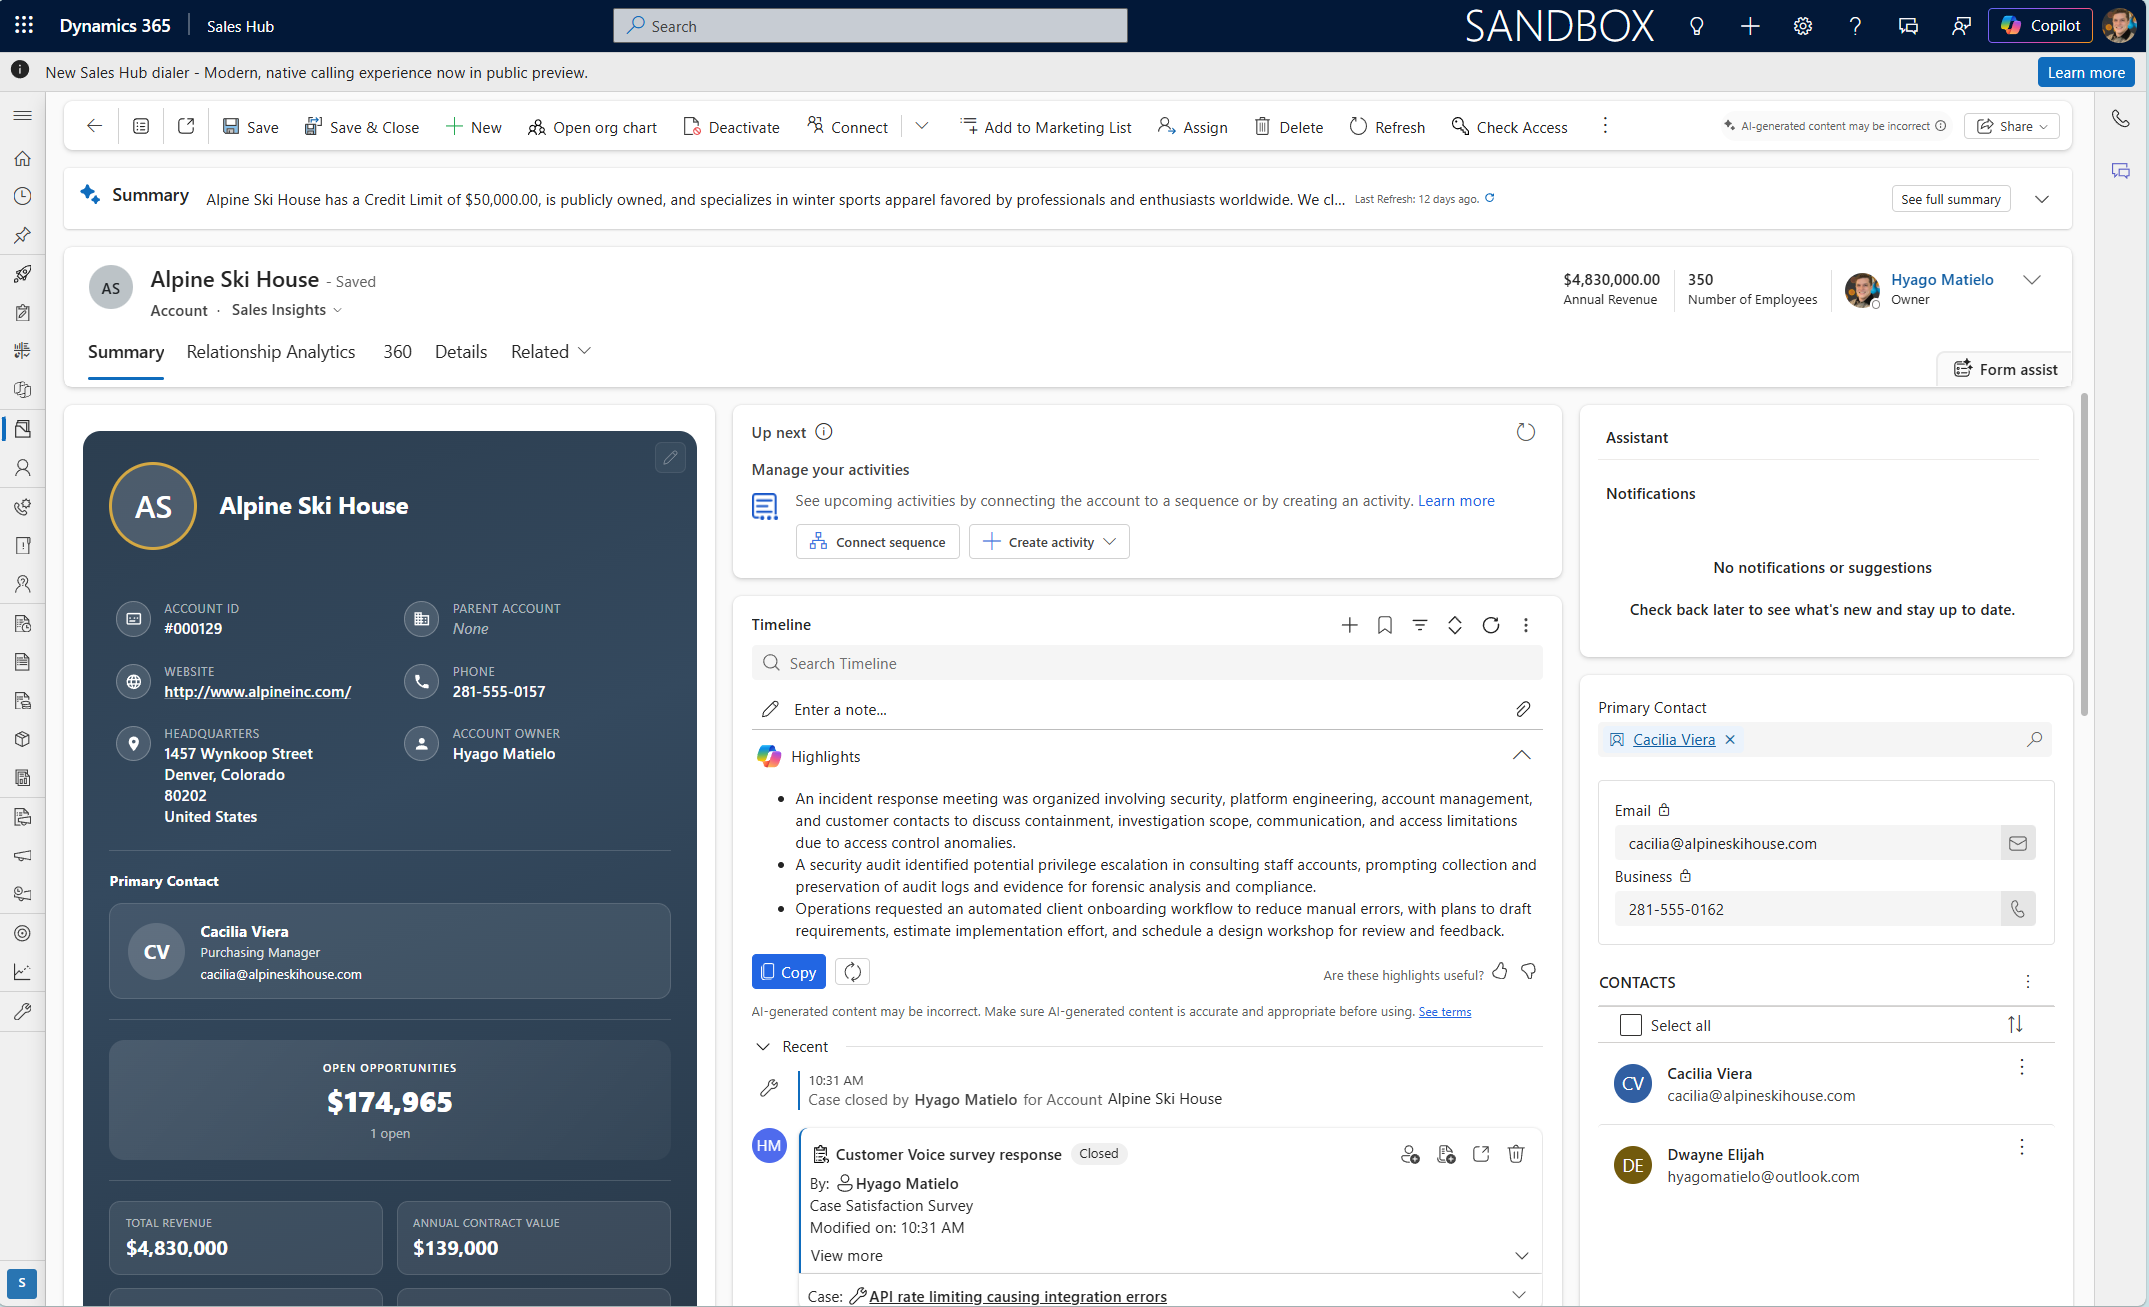
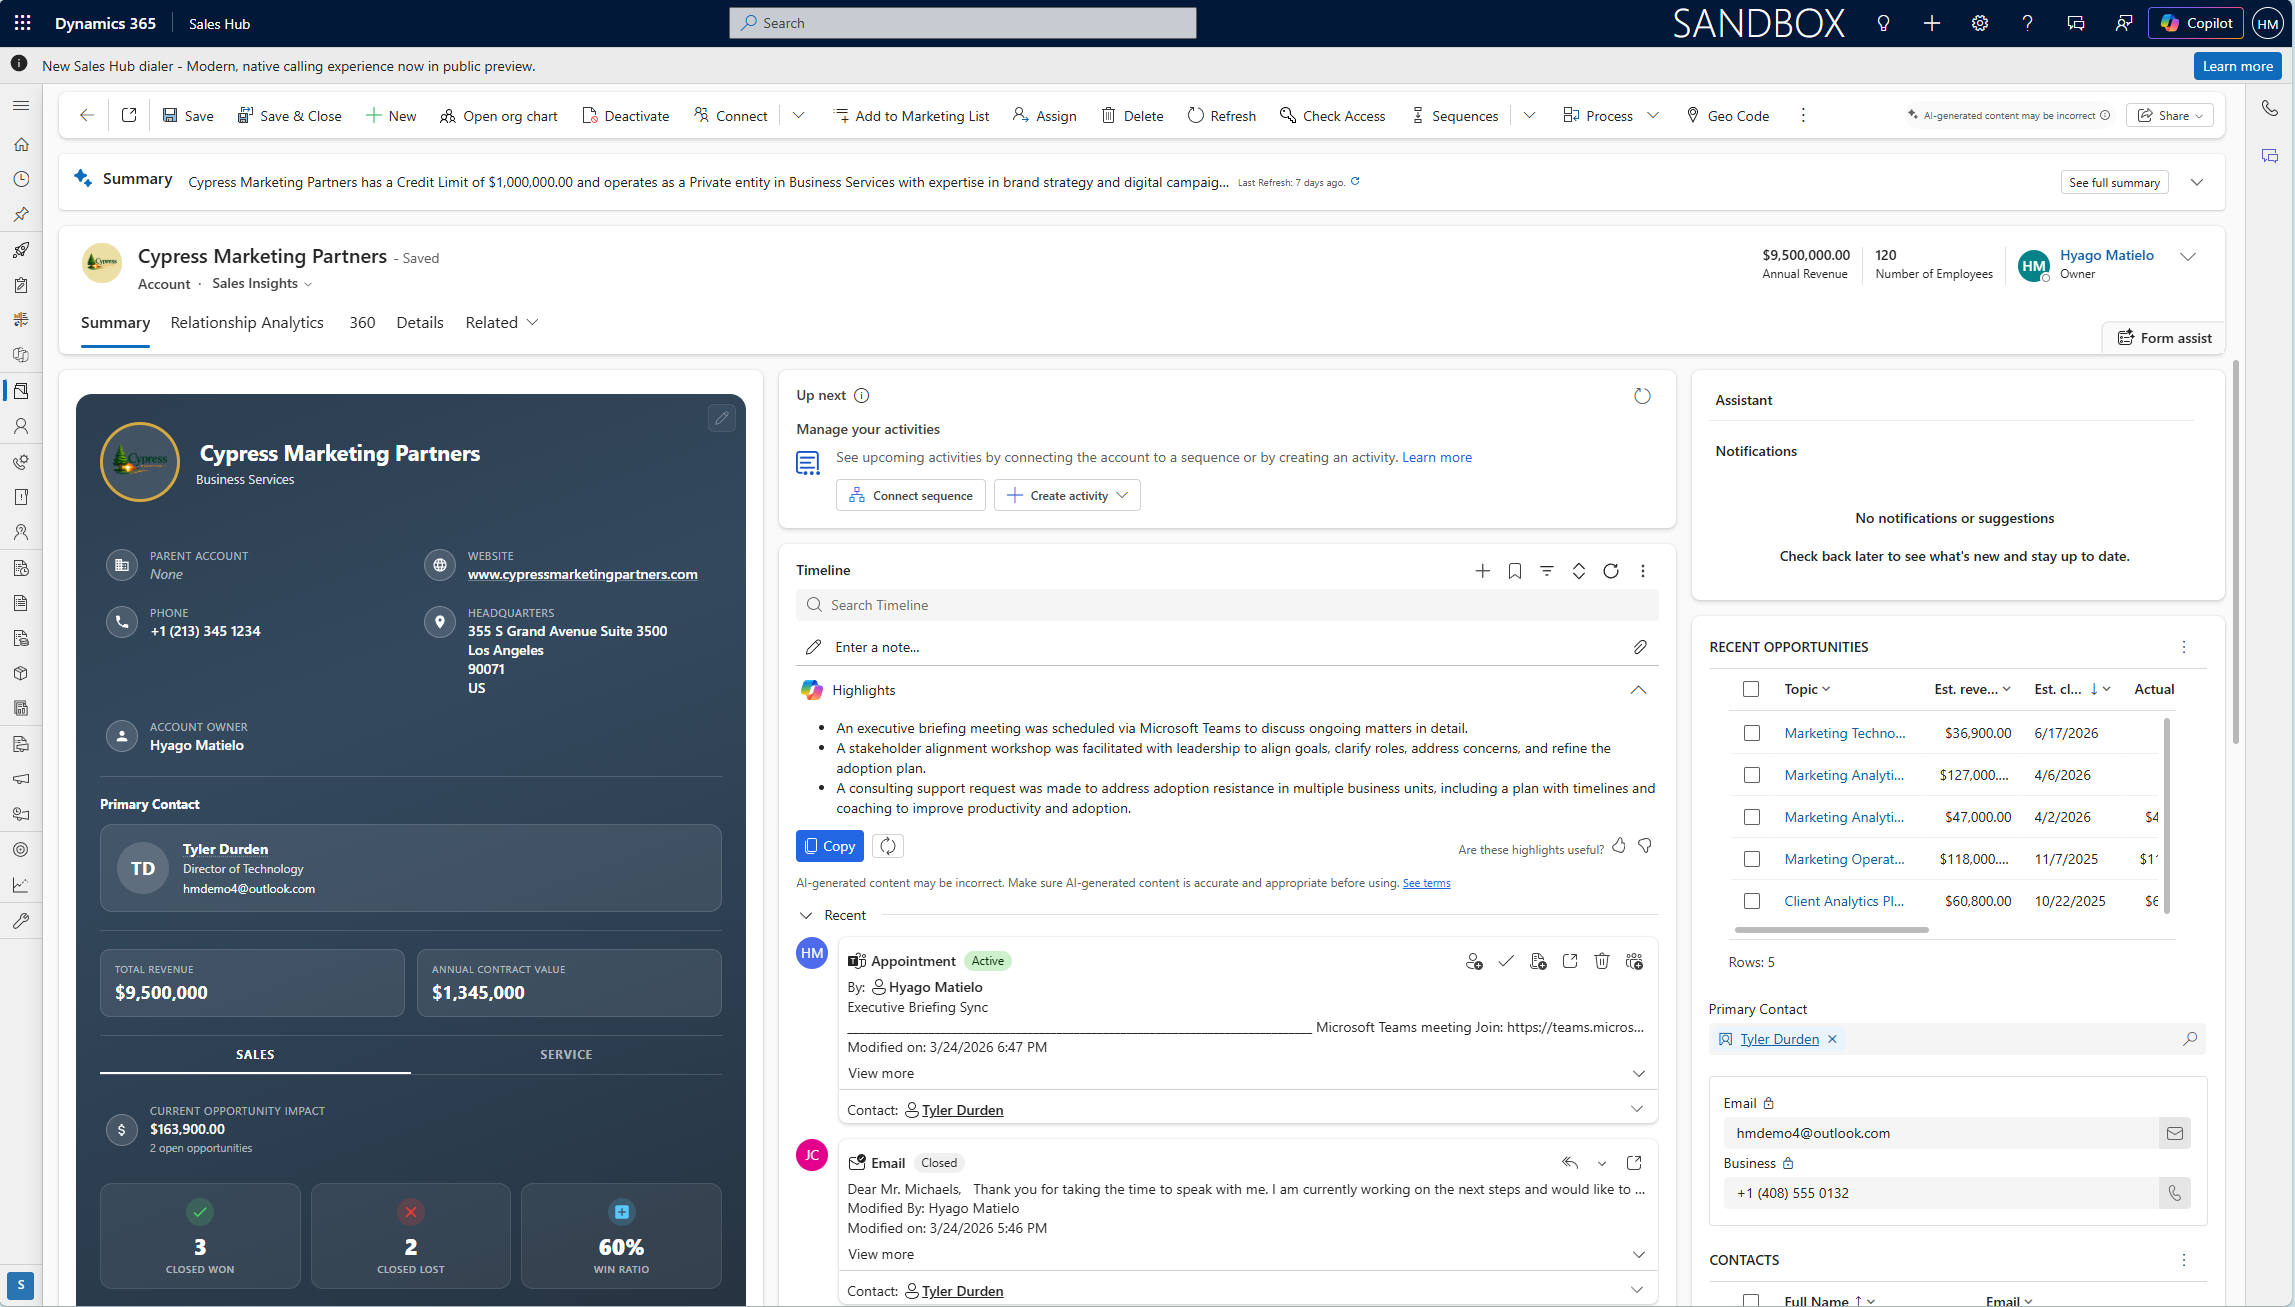
Update README and screenshots for v1.1.0 - Sales/Service tabs

diff --git a/README.md b/README.md
@@ -1,12 +1,16 @@
 # Account 360 Profile Card for Dynamics 365
 
-A compact, visually rich account profile card designed to be embedded directly on the Account form in Microsoft Dynamics 365 Sales. Gives users an at-a-glance view of account health, scores, and key relationships.
+A compact, visually rich account profile card designed to be embedded directly on the Account form in Microsoft Dynamics 365 Sales. Gives users an at-a-glance view of account details, sales pipeline, and case history.
 
 ## Screenshots
 
-| Profile Card | Embedded in Dynamics 365 |
-|:------------:|:------------------------:|
-| ![Profile Card](img/profile-card.png) | ![Embedded](img/embedded-in-d365.png) |
+| Sales Tab | Service Tab |
+|:---------:|:-----------:|
+| ![Sales Tab](img/sales-tab.png) | ![Service Tab](img/service-tab.png) |
+
+| Embedded in Dynamics 365 |
+|:------------------------:|
+| ![Embedded](img/embedded-in-d365.png) |
 
 ## What It Does
 
@@ -14,12 +18,15 @@ When placed on an Account record, this card displays:
 
 - **Account photo & name** — with initials fallback and image upload support.
 - **Industry & address** — core account details shown inline.
+- **Parent account, website, phone, headquarters, account owner** — two-column layout.
+- **Primary contact** — avatar, name, role, and email. Clickable name navigates to the contact record.
+- **Total Revenue & Annual Contract Value** — editable stat cards.
+- **Sales tab** — current opportunity impact (pipeline value + count), closed won / closed lost / win ratio metrics, with clickable popups that list individual opportunities.
+- **Service tab** — open cases count, resolved / cancelled metrics, with clickable popups that list individual cases by priority.
 - **Inline editing** — click any editable field to update it. Changes save back to Dynamics 365 instantly.
-- **Scores section** — NPS Score, CSAT Score, Annual Contract Value, Churn Risk, and Relationship Score with progress bars.
-- **Open opportunities** — count and total pipeline value.
-- **Won/Lost deals** — bar chart with legend.
-- **Primary contact** — avatar, name, role, and email.
-- **Color customization** — built-in color picker to personalize the card's background.
+- **Color customization** — built-in color picker to personalize the card's background and photo border.
+
+Data in the Sales and Service tabs includes records from the account itself **and** all contacts related to that account.
 
 ## How to Use It
 
@@ -32,7 +39,7 @@ No additional servers or installations required. Everything runs inside Dynamics
 ## Requirements
 
 - Microsoft Dynamics 365 Sales (online)
-- Custom fields on the Account entity: `new_npsscore`, `new_annualcontractvalue`, `new_churnrisk`, `new_relationshipscore`
+- Custom field on the Account entity: `new_annualcontractvalue`
 
 ## License
 
